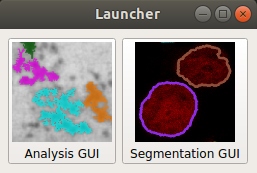
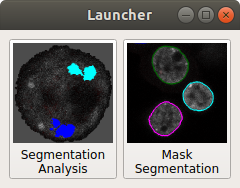
tutorial begin

diff --git a/tutorials/tutorial-chromosome-1/tutorial-chromosome1_16.md b/tutorials/tutorial-chromosome-1/tutorial-chromosome1_16.md
@@ -1,0 +1,114 @@
+
+# Chromosome territory analysis
+
+This tutorial shows how to segment nuclei from 3D confocal images and later how to analyse several parameters of chromosomal territories of chromosome 1 and 16 using PartSeg.
+
+## Use case
+
+Rat postmitotic neurons were fixed and subjected to fluorescent in situ hybridization (FISH) 
+with chromosome paint probes specyfic to chromosome 1 and chromosome 16. 
+Nuclei were counterstained with Hoechest, which binds to DNA. Next 3D images were acquired in 16-bit using confocal microscope.
+
+Postmitotic neurons have always exactly 2 copies of each chromosome, so cells with more than 2 copiers are excluded from the analysis. 
+The length of rat chromosome 1 is 282 Mbp, and chromosome 16 is around 90 Mbp, which constitutes for 9% and 3% of the whole genome accordingly. 
+As chromatin takes up to 60% of nuclear volume (ROUQUETTE et all. 2009), we assumed that chromosome 1
+should not be bigger than 5% of total nuclear volume, and chromosome 16 should be 3 times smaller than chromosome 1. 
+Moreover chromosome paint probes usually don't cover whole length of chromosomes, as highly repetitive sequences are hard to amplify (cytowanie).
+
+
+
+
+Dataset for this tutorial can be download from [here](http://nucleus3d.cent.uw.edu.pl/PartSeg/Downloads/A_deconv_elements.zip). It contains 5 z-stacks with marked chromosome 1 territory. Voxel size is 77x77x210 nm. Data contains 2 channels: channel 1 - DNA staining and channel 2- chromosome territory. Information form channel 1 was used for the segmentation of nuclei volume and mask generation. Nuclear volume and diameter and sum of pixel brightness were calculated based on created masks. Channel 1 was used for segmantation of chromosomal territories. Threshold was adjusted to cover whole chromosome paint staining and several parameters like: components volume, number and surface were calculated using PartSeg.
+
+## Analysis steps
+
+### Segmentation of nuclear volume and creation of masks
+
+1. Open PartSeg
+2. Select "Mask Segmentation"  
+    ![launcher GUI](./images/launcher.png)
+3. Load image  
+    ![mask segmentation](./images/mask_segmentation.png)
+4. Ensure that threshold segmentation method is selected
+5. Choose threshold parameters:
+    1. Channel: 1
+    2. Threshold: Manual
+    3. Threshold: 8000 (of channel brightness value)
+    4. Minimum size: 100000 pixels
+    5. Enable "small holes" 
+    6. Maximum holes size: 800 pixels
+    7. Enable "smooth borders" 
+    8. Smooth borders radius: 1 pixel
+    9. Filter: Gauss
+    10. Gauss type: layer
+    11. Gauss radius: 1
+    12. Enable "use convex_hull"
+6. Execute
+7. Select nuclei that segmented correctly (where mask includes whole volume of a single nucleus) by clicking one by one on the picture. 
+If all nuclei are segmented properly use "Select all" option. The borders of segmentation are visible after enabling "show results" option.
+After the first iteration the rest of nuclei can be subjected to another round of segmentation with a higher threshold.
+8. Each of segmented and selected nucleus and it's mask can be saved as separate 3D tif image using "Save components" option. 
+Images containing all channels of the original picture are saved under the initial name with a "component" and number added. Mask files are saved with the same name, but bearing suffix:_mask.
+9. The whole segmentation can be saved separately using "Save segmentation" option and can be loaded using "Load segmentation" option.
+![mask segmentation](./images/mask_segmentation.png)
+
+### Segmentation of chromosome 1 territories
+1. Open PartSeg
+2. Select "segmentation GUI" button
+    ![launcher GUI](./images/launcher.png)
+3. Select "Advanced" on top of the window
+    ![PartSeg GUI](images/main_window.png)
+4. Choose "Statistic settings" tab (number 1)
+    ![Advanced window](images/advanced.png)
+5. Prepare profile of parameters of segmented nuclei and components within (chromosomal territories)
+In this example we are interested in volume, diameter and surface of whole nucleus, as well as volume, number and surface of chromosome 1 territories.
+From the list of parameters on left choose interesting positions for selected objects (mask- in this case nuclei, and segmentation- here chromosome territories).
+    1. Select "Mask" from list on the left
+    2. Next from the parameter list choose Volume, Diameter and Surface, and add them to created profiles
+    3. Repeat the actions for "Segmentation"
+    4. Partseg allows to calculate ratios of different parameters. To create ratio, select first parameter, click button with symbol ∺ (number 3), select second parameter and confirm.
+    5. At the end Save your profile with specyfic name (number 5).
+
+
+
+### Data processing
+1. Load data:
+    1. Select **Open** button or press **ctrl+O** (cmd+O on mac)
+    2. Select `image with mask` file filter
+    ![open dialog](images/open_file.png)
+    3. Choose data to load
+    4. In next widow choose matching file with `_mask` suffix
+You can also simply drag and drop both files on the main window.
+2. Seect the "Statistic calculation" to get preview on statistic (number 1)
+![PartSeg GUI](images/main_window_analysis.png)
+    * If you prefer to see booth panels and have place on screen you can preview statistic in
+    "Advanced" window in tab "Statistics". These views are independent.
+    * In this view you can see difference between checked and unchecked mask checkbox (number 2).
+    The mask coloring property can be set in "Advanced" window in tab "Settings"
+3. In the right panel (number 1) you should choose algorithm (I suggest Lower threshold on beginning).
+Then set parameters. Don't forget to choose the right channel. And click "Execute" button (number 3)
+![PartSeg GUI](images/main_window_analysis2.png)
+
+4. To verify if segmentation is good, in the left panel choose channel with chromatin - in this case it is 3 (number 4)
+and choose statistic set prepared in Preparation part (number 5). Then press "Recalculate and replace statistics"
+button (number 6)
+
+5. Based on result decide how to modify parameters of the algorithm.
+6. If the result is only one component then you can try it split using "Lower threshold path euclidean".
+
+
+## Apendix
+### A little more about measured parameters
+
+1. To add more parameters to the analysis select the parameter in the left pannel and confim using button with symbol "→", new parameter will be transfered to the right pannel
+2. To remove parameters from the analysis select the parameter name in the right pannel and confim using button with symbol "←"
+3. The parameter profiles can be exported to `.json` file as a backup and future import.
+4. When user choose profile name in the box in upper left part then its description will show in area on right.
+5. You can set custom names for statistics.
+
+### Segment nucleus from stack
+The original stacks is available here: [link]([link](http://nucleus3d.cent.uw.edu.pl/PartSeg/Downloads/A_deconv_stack.zip))
+
+You can try to improve segmentation manually. To do it with PartSeg tool on laucher screen choose button "Segmentation GUI". The workflow is similar.
+
+[comment]: <> (pandoc -t html -s -o tutorial-chromosome1.html --css pandoc.css -M pagetitle:"Chromosome 1 territory analysis"  tutorial-chromosome1.md)
